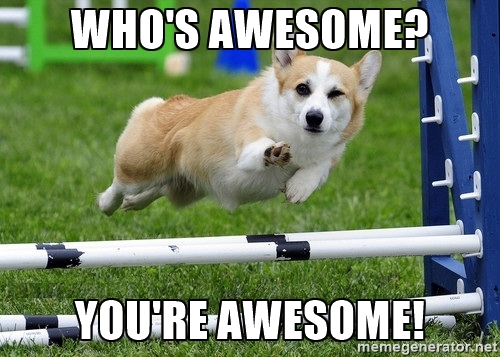
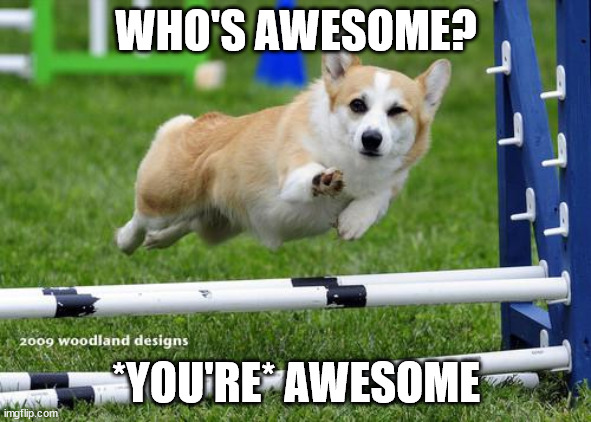
meme

diff --git a/DockerCon2021/index.html b/DockerCon2021/index.html
@@ -220,9 +220,6 @@
 
                 # Development Environment
 
-                Notes:
-
-                TODO: Jeykll Blog in VS Code, GitHub Codespaces
                 </textarea>
             </section>
             <section data-markdown class="center">
@@ -330,8 +327,6 @@
                 data-state="no-title-footer" preload>
                 <textarea>
                     Notes:
-
-                    TODO: Generate new high fidelity meme
 
                     Image credit: https://memegenerator.net/Ridiculously-Photogenic-Corgi/caption
                 </textarea>
